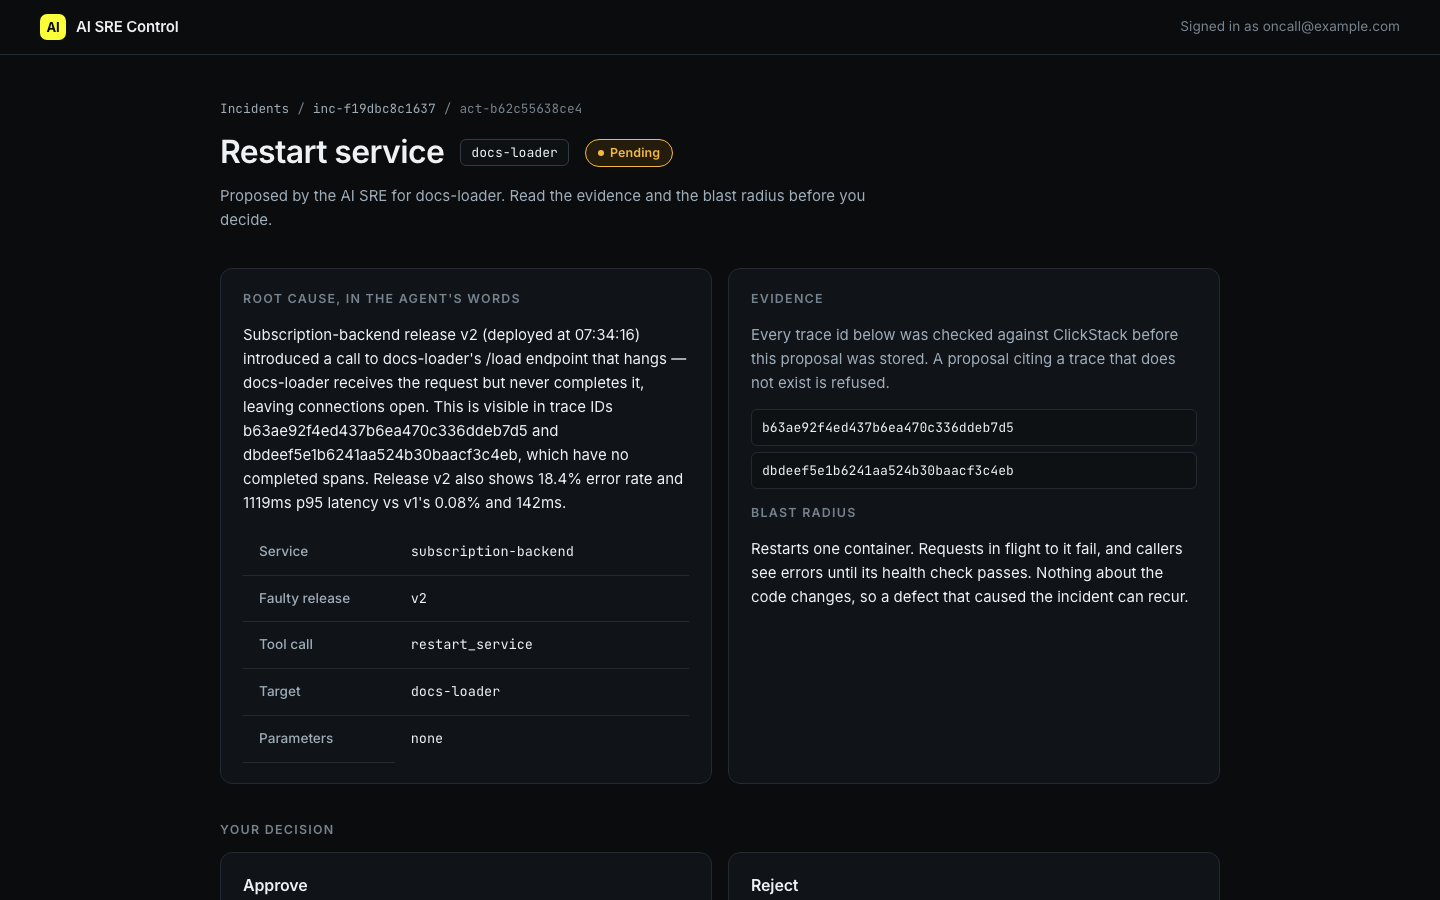
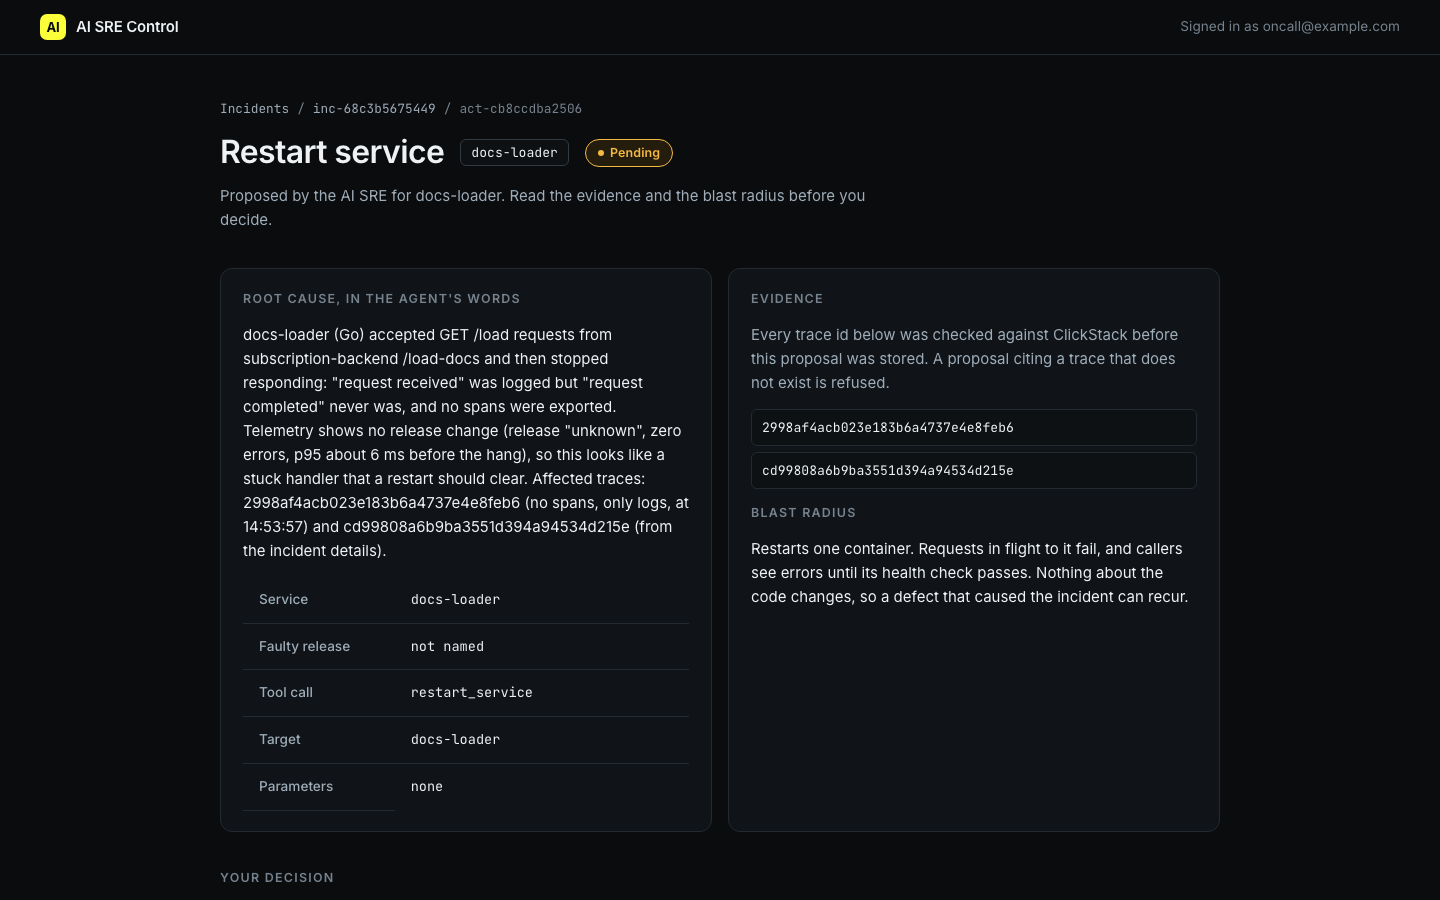
Run the AI SRE on Claude Haiku 5.5 with a clean-state e2e
- Name the LibreChat endpoint Workspace: a name with "anthropic" or "claude"
  routes to the native client, which sends thinking "enabled" and Haiku 5.5
  answers 400.
- faulty_release is optional and asks for the release as telemetry names it;
  the control plane drops a "<service>." prefix. The docs-loader hang has no
  release, and "subscription-backend.v2" was refused three times.
- HyperDX login submits with Enter; the button detached mid-render.
- CHAT_PORT moves the chat off a busy 3080.
- Evidence from a clean-state run: 25 of 25 specs.

diff --git a/e2e/lib/ui.ts b/e2e/lib/ui.ts
@@ -38,8 +38,10 @@ export const openHyperdx = async (page: Page): Promise<void> => {
   await expect(email.or(searchPage).first()).toBeVisible({ timeout: 60_000 });
   if (await email.isVisible()) {
     await email.fill(config.hyperdxUser.email);
+    // Enter, not a click on Login: HyperDX re-renders the form as it loads, and a click on the
+    // detached button retried until the test timed out (e2e run of 21 Oct 2026).
     await page.getByPlaceholder("Password").fill(config.hyperdxUser.password);
-    await page.getByRole("button", { name: "Login" }).click();
+    await page.getByPlaceholder("Password").press("Enter");
   }
   await expect(searchPage).toBeVisible({ timeout: 30_000 });
 };

diff --git a/e2e/lib/config.ts b/e2e/lib/config.ts
@@ -24,8 +24,13 @@ const required = (key: string): string => {
 };
 
 const domain = process.env.PUBLIC_DOMAIN ?? fileEnv.PUBLIC_DOMAIN;
+// CHAT_PORT and the like move a local port when another project holds the default.
+const portFor = (name: string, port: number): string => {
+  const key = `${name.toUpperCase()}_PORT`;
+  return process.env[key] ?? fileEnv[key] ?? String(port);
+};
 const url = (name: string, port: number): string =>
-  domain ? `https://${name}.${domain}` : `http://localhost:${port}`;
+  domain ? `https://${name}.${domain}` : `http://localhost:${portFor(name, port)}`;
 
 export const config = {
   appUrl: url("app", 8000),

diff --git a/subscription-app/static/css/app.css b/subscription-app/static/css/app.css
@@ -98,7 +98,7 @@ nav {
 @keyframes spin { to { transform: rotate(360deg); } }
 
 /* Hero */
-.hero { padding: 72px 0 88px; }
+.hero { padding: 72px 0 88px; overflow-x: clip; } /* the paid stamp lands from 1.6x scale past the edge */
 .hero-grid { display: grid; grid-template-columns: 1.15fr 0.85fr; gap: 56px; align-items: center; }
 .hero h1 { font-size: clamp(2.4rem, 5vw, 4rem); letter-spacing: -0.025em; max-width: 14ch; }
 .hero-copy { font-size: 1.15rem; color: var(--ink-soft); max-width: 52ch; margin: 24px 0 32px; }

diff --git a/scripts/bootstrap_users.py b/scripts/bootstrap_users.py
@@ -1,8 +1,10 @@
 """Create the two workshop logins if they do not exist yet. Safe to run on every `make up`.
 
 LibreChat: the AI SRE chat user, through LibreChat's own create-user command.
-HyperDX: a workshop member of your existing HyperDX team, through HyperDX's own invite
-acceptance endpoint, so the password is hashed by HyperDX. Passwords are read from .env and
+HyperDX: on a fresh stack the workshop user registers as the first account, which creates the
+team, and the team's ingestion key is set to HYPERDX_API_KEY; otherwise it joins your existing
+team through HyperDX's own invite acceptance endpoint.
+Either way the password is hashed by HyperDX. Passwords are read from .env and
 passed on stdin or in a request body, never as command arguments.
 """
 
@@ -10,6 +12,7 @@ import json
 import secrets
 import subprocess
 import sys
+import time
 import urllib.error
 import urllib.parse
 import urllib.request
@@ -35,17 +38,49 @@ def librechat_user(email: str, password: str) -> None:
     print(f"LibreChat user {email} created")
 
 
-def hyperdx_user(email: str, password: str) -> None:
+def wait_for_ingest(api_key: str, timeout_s: int = 120) -> None:
+    """The collector picks up a changed team key on its next config poll, and resets connections meanwhile."""
+    deadline = time.monotonic() + timeout_s
+    while True:
+        request = urllib.request.Request(
+            "http://localhost:4318/v1/logs", data=b'{"resourceLogs": []}', method="POST",
+            headers={"authorization": api_key, "content-type": "application/json"},
+        )  # fmt: skip
+        try:
+            with urllib.request.urlopen(request, timeout=5) as response:  # noqa: S310 fixed http URL
+                if response.status == 200:
+                    return
+        except (urllib.error.URLError, ConnectionError, TimeoutError):
+            pass
+        if time.monotonic() > deadline:
+            raise SystemExit(f"The collector did not accept HYPERDX_API_KEY within {timeout_s} s")
+        time.sleep(2)
+
+
+def hyperdx_user(email: str, password: str, api_key: str) -> None:
     mongo = ["docker", "exec", "clickstack", "mongo", "--quiet", "hyperdx", "--eval"]
     if sh([*mongo, f"db.users.count({{ email: {json.dumps(email)} }})"]) != "0":
         print(f"HyperDX user {email} exists")
         return
+    if sh([*mongo, "db.teams.count()"]) == "0":
+        # Posted from inside the container to the HyperDX API port, so it works where 8080 is not published.
+        status = sh(
+            ["docker", "exec", "-i", "clickstack", "curl", "-s", "-o", "/dev/null", "-w", "%{http_code}",
+             "-H", "Content-Type: application/json", "--data-binary", "@-", "http://localhost:8000/register/password"],
+            stdin=json.dumps({"email": email, "password": password, "confirmPassword": password}),
+        )  # fmt: skip
+        if status != "200":
+            raise SystemExit(f"HyperDX refused to register the workshop user (HTTP {status})")
+        # The new team gets a random ingestion key; the collector and every app already send the one in .env.
+        sh(["docker", "exec", "-i", "clickstack", "mongo", "--quiet", "hyperdx"],
+           stdin=f"db.teams.updateOne({{}}, {{ $set: {{ apiKey: {json.dumps(api_key)} }} }});\n")  # fmt: skip
+        wait_for_ingest(api_key)
+        print(f"HyperDX user {email} created with a new team that accepts HYPERDX_API_KEY")
+        return
     token = secrets.token_hex(32)
     sh([*mongo, f"""var team = db.teams.findOne();
-        if (!team) {{ throw new Error('Sign up in HyperDX at http://localhost:8080 first'); }}
         db.teaminvites.insertOne({{ teamId: team._id, email: {json.dumps(email)}, token: '{token}',
                                    createdAt: new Date(), updatedAt: new Date() }});"""])  # fmt: skip
-    # Posted from inside the container to the HyperDX API port, so it works where 8080 is not published.
     location = sh(
         ["docker", "exec", "-i", "clickstack", "curl", "-s", "-o", "/dev/null", "-w", "%{redirect_url}",
          "--data-binary", "@-", f"http://localhost:8000/team/setup/{token}"],
@@ -61,7 +96,7 @@ def hyperdx_user(email: str, password: str) -> None:
 def main() -> None:
     env = read(ENV)
     librechat_user(env["LIBRECHAT_USER_EMAIL"], env["LIBRECHAT_USER_PASSWORD"])
-    hyperdx_user(env["HYPERDX_USER_EMAIL"], env["HYPERDX_USER_PASSWORD"])
+    hyperdx_user(env["HYPERDX_USER_EMAIL"], env["HYPERDX_USER_PASSWORD"], env["HYPERDX_API_KEY"])
 
 
 if __name__ == "__main__":

diff --git a/sre-control/sre_control/tools.py b/sre-control/sre_control/tools.py
@@ -166,15 +166,21 @@ def build_mcp(*, telemetry, remediations: Remediations, token: str | None, publi
         target: Annotated[str, Field(description="A target listed for that action in allowed_actions.")],
         root_cause: Annotated[str, Field(description="Two or three sentences: what fails, where, and why.")],
         faulty_service: Annotated[str, Field(description="The service whose telemetry shows the fault.")],
-        faulty_release: Annotated[
-            str,
-            Field(
-                description="The service.version that introduced the fault (NOT the release to roll back to)."
-            ),
-        ],
         trace_ids: Annotated[
             list[str], Field(description="Failing trace ids exactly as a tool returned them.")
         ],
+        # Optional since the docs-loader hang: no release caused it, and a required field made the
+        # model invent "docs-loader.unknown", which grounding refused (e2e run of 21 Oct 2026).
+        faulty_release: Annotated[
+            str,
+            Field(
+                description=(
+                    "The release that introduced the fault, as telemetry names it, for example v2 "
+                    "(NOT the release to roll back to). "
+                    "Leave empty when no release changed, for example a hang that a restart clears."
+                )
+            ),
+        ] = "",
         params: Annotated[
             dict[str, str] | None,
             Field(

diff --git a/tests/test_librechat.py b/tests/test_librechat.py
@@ -13,7 +13,10 @@ MODEL = "claude-haiku-5-5"
 
 def test_anthropic_endpoint_uses_the_env_key():
     (endpoint,) = CONFIG["endpoints"]["custom"]
-    assert endpoint["name"] == "Anthropic"
+    assert endpoint["name"] == "Workspace"
+    # A name holding "anthropic" or "claude" routes LibreChat to its native Claude client, whose
+    # thinking.type "enabled" Haiku 5.5 rejects with a 400 (e2e run of 21 Oct 2026).
+    assert not re.search("anthropic|claude", endpoint["name"], re.I)
     assert endpoint["baseURL"] == "https://api.anthropic.com/v1"
     assert endpoint["apiKey"] == "${ANTHROPIC_API_KEY}"
     assert endpoint["models"]["default"] == [MODEL]
@@ -27,7 +30,7 @@ def test_the_ai_sre_spec_is_enforced_with_both_mcp_servers():
     assert specs["enforce"] is True
     (spec,) = specs["list"]
     assert spec["name"] == "ai-sre"
-    assert spec["preset"]["endpoint"] == "Anthropic"
+    assert spec["preset"]["endpoint"] == "Workspace"
     assert "temperature" not in spec["preset"]
     assert spec["preset"]["model"] == MODEL
     assert set(spec["mcpServers"]) == {"sre", "clickhouse"}

diff --git a/sre-control/tests/test_grounding.py b/sre-control/tests/test_grounding.py
@@ -42,6 +42,18 @@ def test_release_never_seen_is_rejected(propose):
         propose(release="v9")
 
 
+def test_a_release_named_with_its_service_is_grounded(propose, remediations):
+    rollback = propose(release="subscription-backend.v2")
+    assert remediations.status(rollback.action_id).state == "pending"
+
+
+def test_a_fault_with_no_release_can_be_proposed(propose, remediations):
+    restart = propose(
+        action="restart_service", target="docs-loader", params={}, service="docs-loader", release=""
+    )
+    assert remediations.status(restart.action_id).state == "pending"
+
+
 def test_action_outside_policy_is_rejected(propose):
     with pytest.raises(PolicyError):
         propose(action="drop_table", target="users", params={})

diff --git a/sre-control/sre_control/probe.py b/sre-control/sre_control/probe.py
@@ -35,6 +35,9 @@ def run_sql() -> list[dict]:
     )
     trace_ids = [r["trace_id"] for r in telemetry.rows("sample_error_traces", service="subscription-backend",
                                                         minutes=60)]  # fmt: skip
+    # On a fresh stack the slowest requests are the cold first ones, sent before the log exporter
+    # started, so a trace that has logs goes first.
+    trace_ids.sort(key=lambda trace_id: not telemetry.rows("trace_logs", trace_id=trace_id))
     results = []
     for name, query in queries.items():
         if name.startswith("create_"):

diff --git a/sre-control/sre_control/approvals.py b/sre-control/sre_control/approvals.py
@@ -82,6 +82,9 @@ class Remediations:
         if live:
             return live[0]
         now = self.clock()
+        # The model wrote "subscription-backend.v2" for release v2 and was refused three times
+        # (e2e run of 21 Oct 2026); the service prefix adds nothing, so it is dropped.
+        release = release.removeprefix(f"{service}.")
         window = f"the last {GROUNDING_HOURS} hours"
         if not trace_ids:
             raise Ungrounded("cite at least one trace id returned by a tool")

diff --git a/sre-control/tests/test_tools.py b/sre-control/tests/test_tools.py
@@ -23,6 +23,12 @@ def test_every_tool_is_classified(remediations):
         assert tool.annotations.destructive_hint is (cls is ToolClass.ACTION), name
 
 
+def test_the_proposal_tool_does_not_require_a_release(remediations):
+    schema = tools(remediations)["propose_remediation"].parameters
+    assert "faulty_release" in schema["properties"]
+    assert "faulty_release" not in schema.get("required", [])
+
+
 def test_an_unclassified_tool_cannot_register():
     with pytest.raises(UnclassifiedTool):
 

diff --git a/README.md b/README.md
@@ -61,6 +61,8 @@ limited to 8 GB. The e2e suite adds a headless Chromium on the host.
 | AI SRE Control | http://localhost:8090 | `SRE_APPROVER_EMAIL` |
 | LibreChat | http://localhost:3080 | `LIBRECHAT_USER_EMAIL` |
 
+If another project already holds port 3080, run `CHAT_PORT=3081 make up` and open LibreChat on 3081.
+
 Stop it with `make down`. Your data stays in `./clickstack/`, `./postgresql-db/` and the
 `librechat_mongodb` volume.
 
